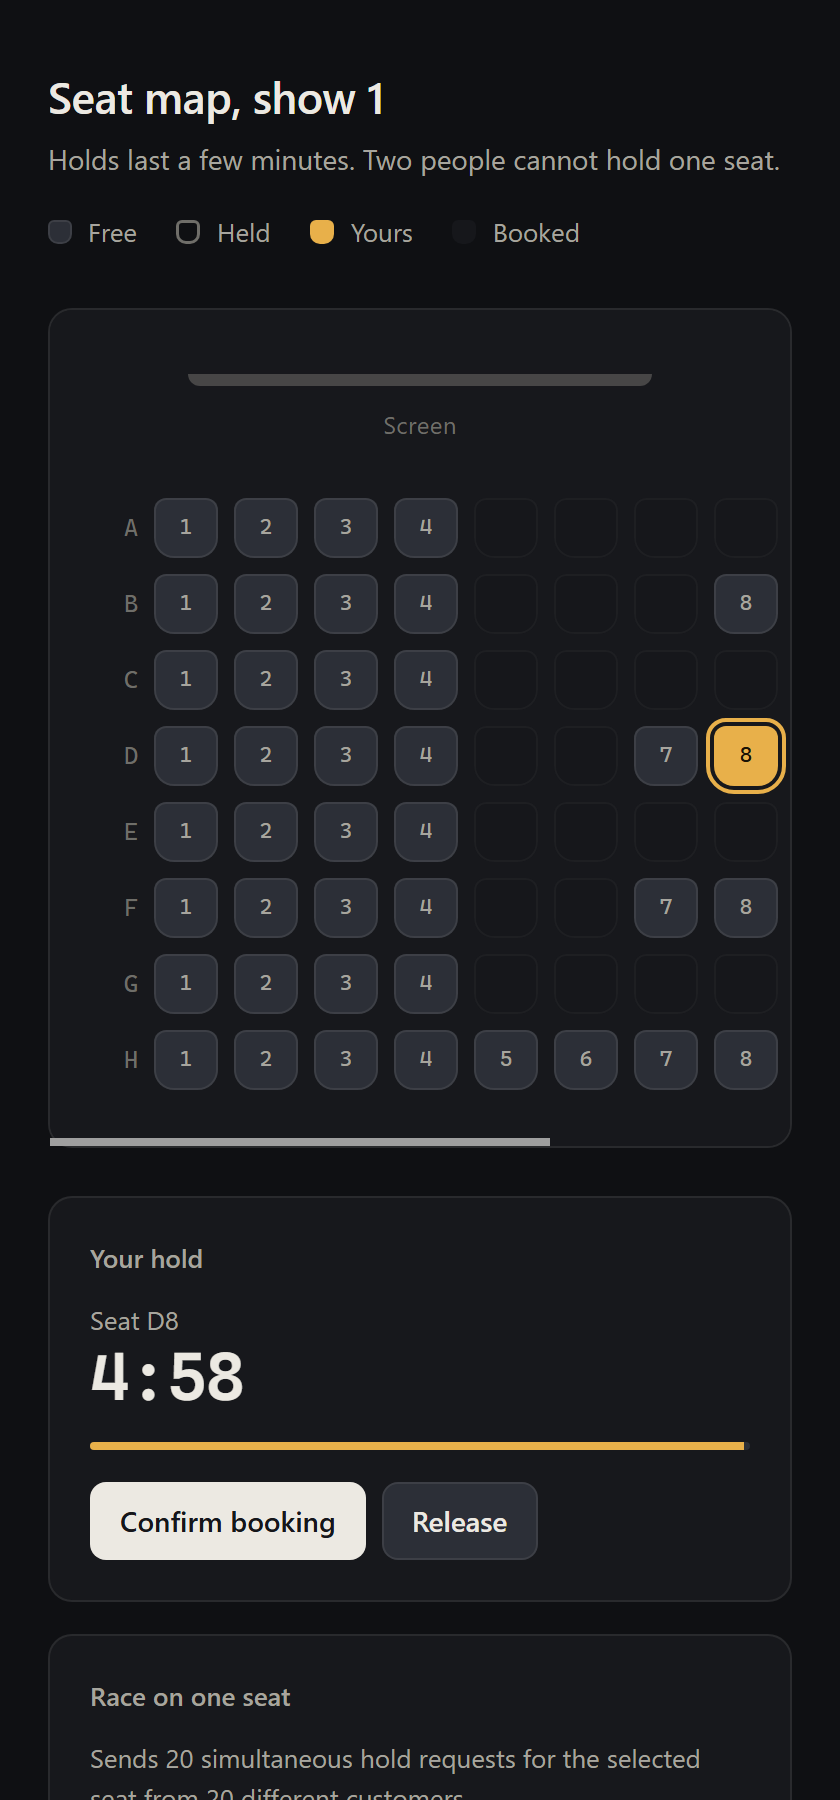
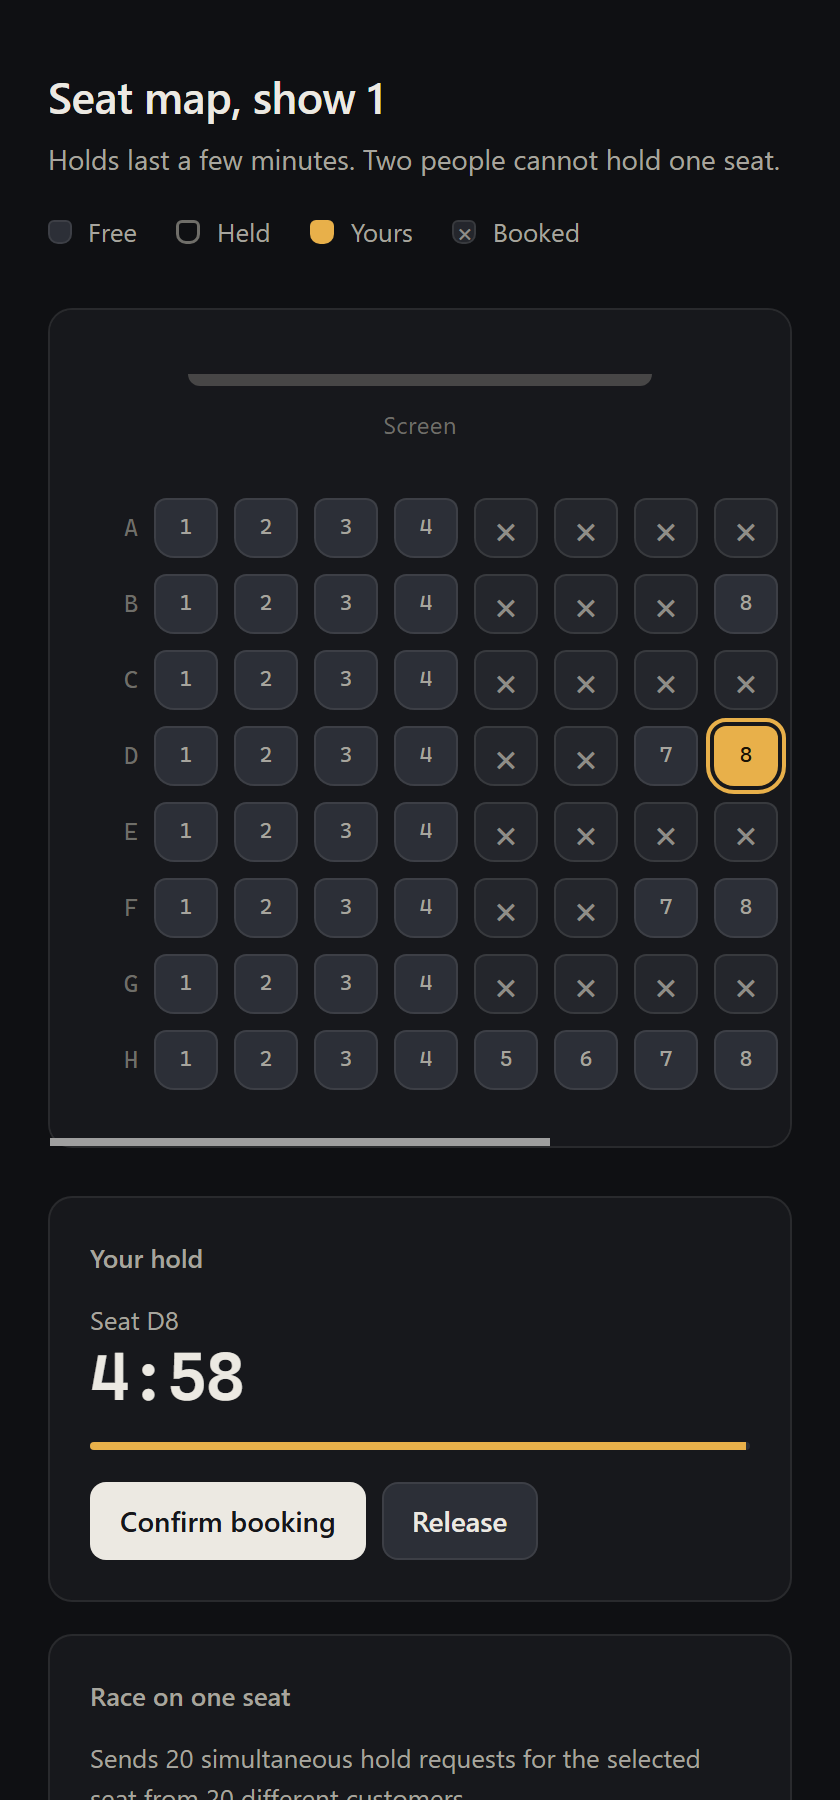
Seat map: fix x glyph escape, refresh screenshots

diff --git a/src/main/resources/static/index.html b/src/main/resources/static/index.html
@@ -32,7 +32,7 @@
   .legend span { display: inline-flex; align-items: center; gap: 8px; }
   .dot { width: 12px; height: 12px; border-radius: 3px 3px 5px 5px; display: inline-block; }
   .dot-booked { position: relative; background: var(--booked); box-shadow: inset 0 0 0 1px rgba(236,233,226,0.10); }
-  .dot-booked::after { content: "d7"; position: absolute; inset: 0; display: flex; align-items: center; justify-content: center; color: var(--booked-mark); font: 500 13px/1 var(--sans); }
+  .dot-booked::after { content: "\d7"; position: absolute; inset: 0; display: flex; align-items: center; justify-content: center; color: var(--booked-mark); font: 500 13px/1 var(--sans); }
   .layout { display: grid; grid-template-columns: minmax(0, 1fr) 320px; gap: 24px; align-items: start; }
   @media (max-width: 880px) { .layout { grid-template-columns: 1fr; } }
   .hall { background: var(--surface); border: 1px solid var(--line); border-radius: 12px; padding: 32px 24px 28px; overflow-x: auto; }
@@ -50,7 +50,7 @@
   .seat.held { background: transparent; box-shadow: inset 0 0 0 1.5px var(--text-3); cursor: not-allowed; }
   .seat.mine { background: var(--accent); color: var(--accent-ink); box-shadow: none; cursor: default; }
   .seat.booked { position: relative; background: var(--booked); box-shadow: inset 0 0 0 1px rgba(236,233,226,0.10); color: transparent; cursor: not-allowed; }
-  .seat.booked::after { content: "d7"; position: absolute; inset: 0; display: flex; align-items: center; justify-content: center;
+  .seat.booked::after { content: "\d7"; position: absolute; inset: 0; display: flex; align-items: center; justify-content: center;
                         color: var(--booked-mark); font: 500 20px/1 var(--sans); }
   .seat.picked { outline: 2px solid var(--accent); outline-offset: 2px; }
   aside { display: grid; gap: 16px; }
